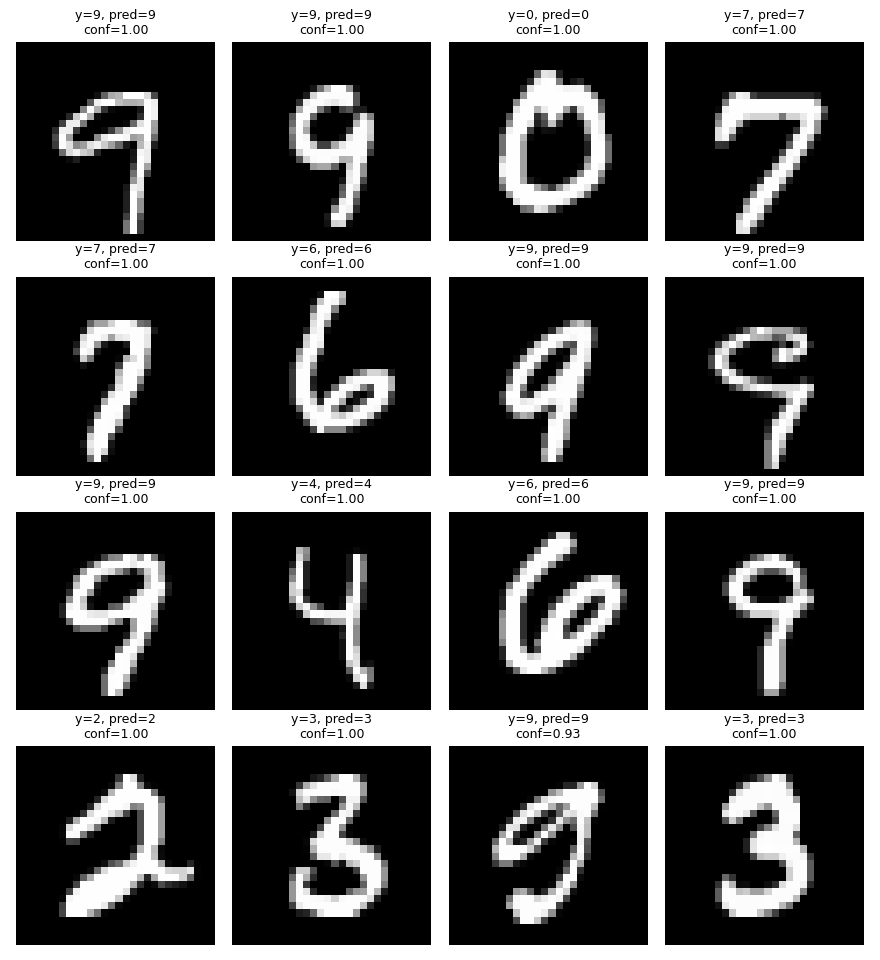
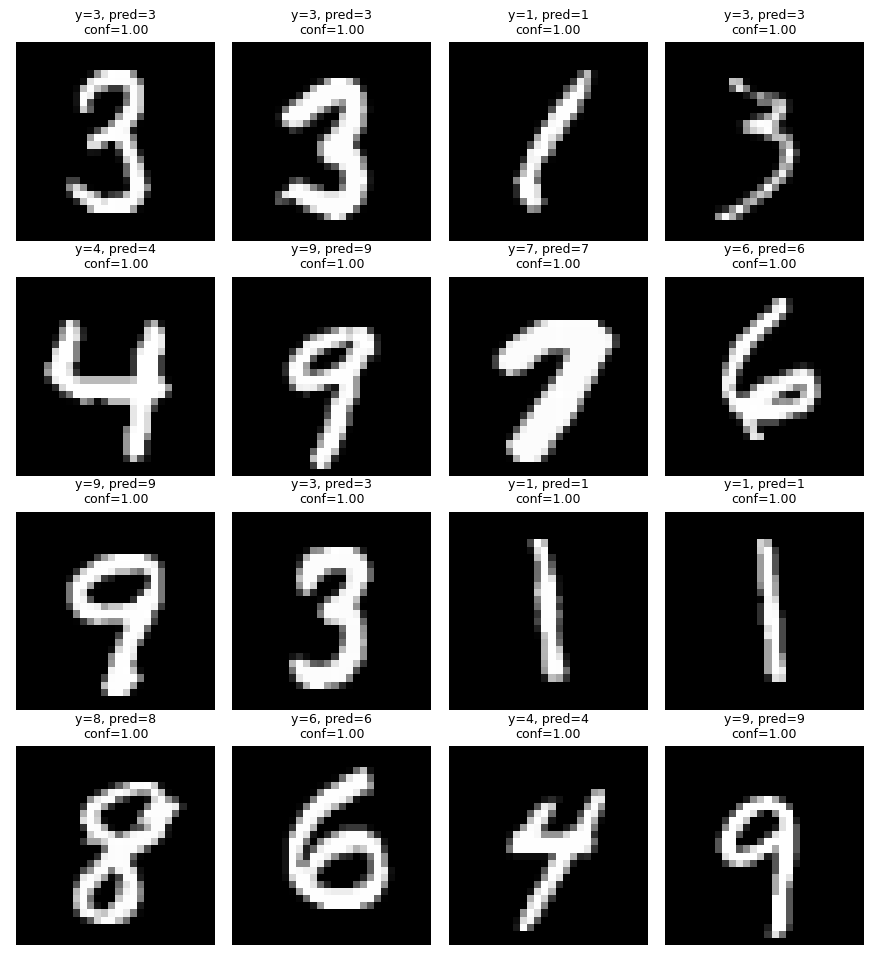
Fix: compress the name to save checkpoints

diff --git a/utils/checkpoint.py b/utils/checkpoint.py
@@ -5,6 +5,7 @@ Save and load model parameters.
 from __future__ import annotations
 
 import json
+import hashlib
 from pathlib import Path
 
 import numpy as np
@@ -47,10 +48,65 @@ def _format_key_for_path(key: str) -> str:
     return key_names.get(key, key.lower())
 
 
+def _short_run_name(hyperparams: dict, full_run_name: str, max_stem_length: int) -> str:
+    """
+    Build a compact run name when the full hyperparameter filename is too long.
+
+    The complete hyperparameters are still stored in checkpoint metadata; the
+    filename only needs enough information to identify the run at a glance.
+    """
+    short_key_names = {
+        "DATASET": "ds",
+        "MODEL_TYPE": "model",
+        "BATCH_SIZE": "bs",
+        "HIDDEN_DIMS": "h",
+        "LEARNING_RATE": "lr",
+        "OPTIMIZER": "opt",
+        "ACTIVATION": "act",
+        "RANDOM_SEED": "seed",
+        "WEIGHT_INIT": "init",
+        "CNN_OUT_CHANNELS": "cout",
+        "CNN_KERNEL_SIZE": "ck",
+        "MOMENTUM": "mom",
+        "BETA1": "b1",
+        "BETA2": "b2",
+    }
+    preferred_keys = [
+        "DATASET",
+        "MODEL_TYPE",
+        "BATCH_SIZE",
+        "HIDDEN_DIMS",
+        "LEARNING_RATE",
+        "OPTIMIZER",
+        "ACTIVATION",
+        "RANDOM_SEED",
+        "WEIGHT_INIT",
+        "CNN_OUT_CHANNELS",
+        "CNN_KERNEL_SIZE",
+        "MOMENTUM",
+        "BETA1",
+        "BETA2",
+    ]
+
+    parts = []
+    for key in preferred_keys:
+        if key in hyperparams:
+            parts.append(f"{short_key_names[key]}-{_format_value(hyperparams[key])}")
+
+    digest = hashlib.sha1(full_run_name.encode("utf-8")).hexdigest()[:10]
+    short_name = "_".join(parts + [digest])
+
+    if len(short_name) > max_stem_length:
+        short_name = f"{short_name[:max_stem_length - 11]}_{digest}"
+
+    return short_name
+
+
 def checkpoint_path_from_hyperparams(
     hyperparams: dict,
     save_dir: str = "checkpoints",
     suffix: str = ".npz",
+    max_filename_length: int = 180,
 ) -> Path:
     """
     Build a checkpoint path whose filename contains the experiment hyperparameters.
@@ -59,6 +115,14 @@ def checkpoint_path_from_hyperparams(
         f"{_format_key_for_path(key)}-{_format_value(value)}"
         for key, value in hyperparams.items()
     )
+
+    if len(f"{run_name}{suffix}") > max_filename_length:
+        run_name = _short_run_name(
+            hyperparams=hyperparams,
+            full_run_name=run_name,
+            max_stem_length=max_filename_length - len(suffix),
+        )
+
     return Path(save_dir) / f"{run_name}{suffix}"
 
 

diff --git a/config.py b/config.py
@@ -20,11 +20,11 @@ IMAGE_WIDTH = 28
 # 基础参量
 HIDDEN_DIMS = [128] # 隐藏层的结构。如[128]代表只有一层128维的隐藏层
 BATCH_SIZE = 64 # 详见mini-batch gardient descent
-NUM_EPOCHS = 100 # 总训练次数
+NUM_EPOCHS = 20 # 总训练次数
 LEARNING_RATE = 0.01 # 学习率
 
 # CNN结构
-CNN_OUT_CHANNELS = 8
+CNN_OUT_CHANNELS = 32
 CNN_KERNEL_SIZE = 3
 CNN_STRIDE = 1
 CNN_PADDING = 1
@@ -32,7 +32,7 @@ POOL_KERNEL_SIZE = 2
 POOL_STRIDE = 2
 
 # 优化器
-OPTIMIZER = "sgd" # 可选：'sgd', 'momentum', 'adam'
+OPTIMIZER = "momentum" # 可选：'sgd', 'momentum', 'adam'
 MOMENTUM = 0.9
 BETA1 = 0.9
 BETA2 = 0.999
@@ -48,4 +48,4 @@ RANDOM_SEED = 42 # 初始权重的随机种子
 # 模型保存
 CHECKPOINT_PATH = "checkpoints/latest_model.npz"
 # 数据来源
-DATASET = "mnist" # 可选: 'mnist', 'fashionmnist', 'cifar10'
+DATASET = "fashionmnist" # 可选: 'mnist', 'fashionmnist', 'cifar10'
